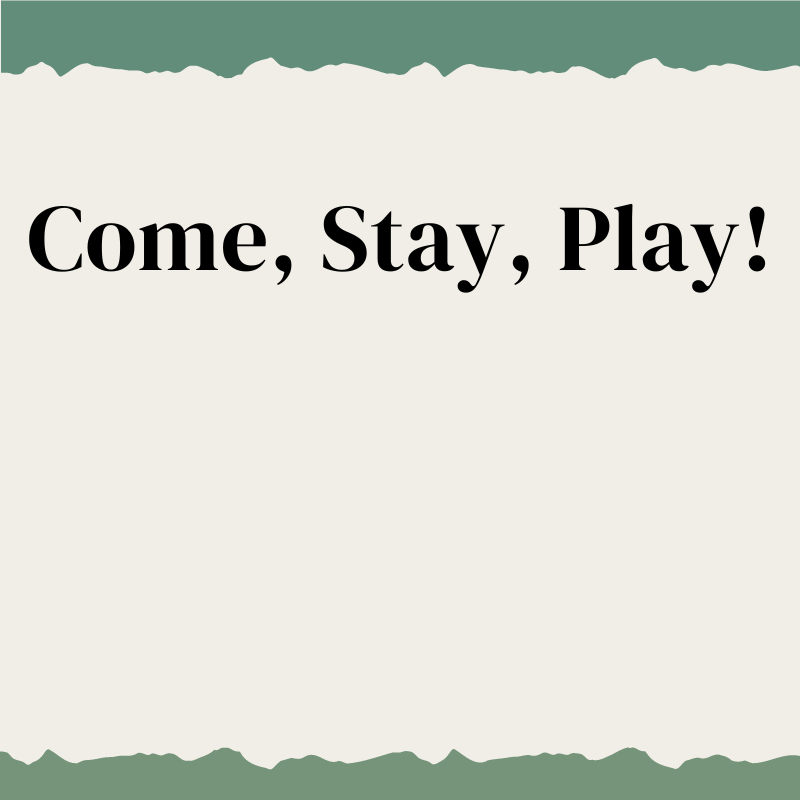
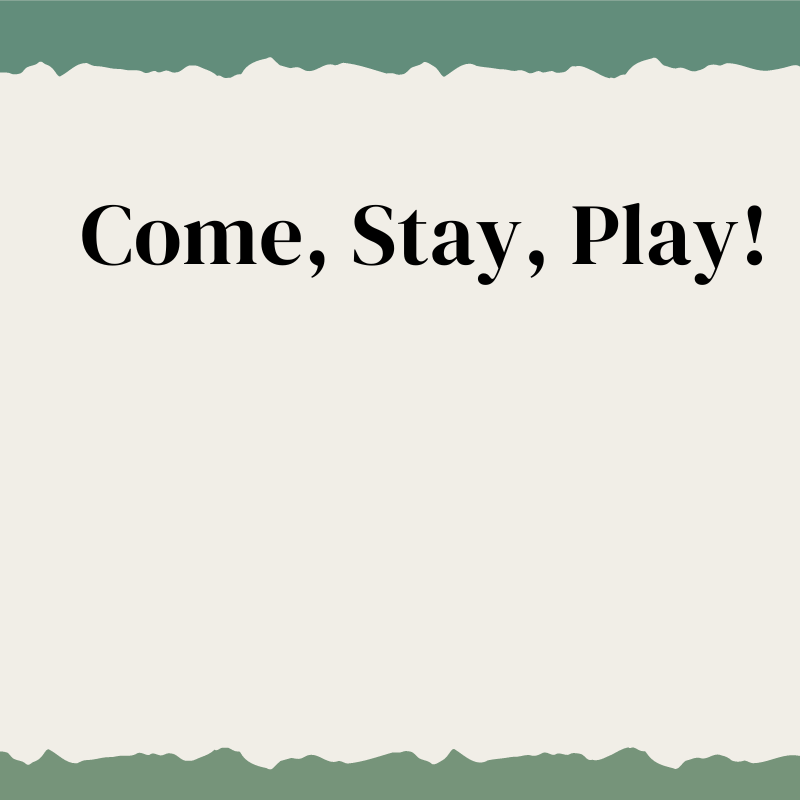
Font-family and styling throughout

Changed region(s): [[0.0312, 0.25, 0.9688, 0.375]]

diff --git a/assets/css/stylesheet.css b/assets/css/stylesheet.css
@@ -1,38 +1,40 @@
 /*--------------------Google Fonts */
 
-@import url('https://fonts.googleapis.com/css2?family=DM+Serif+Display&family=Nunito:wght@200;300;800&display=swap');
-
+@import url('https://fonts.googleapis.com/css2?family=DM+Serif+Display&family=Nunito+Sans:wght@300;600&display=swap');
 body {
     
     margin:0;
     padding: 70px 0px 0px 0px;
     background-color: #76947A;
+    color: black;
 
 }
 
 
 .nav-text {
-    color: black !important;
-    font-size: 21px;
-    font-family: livvic;
-    font-weight:400;
+    font-size: 21px !important;
+    font-family: 'Nunito Sans', sans-serif;
+    font-weight:600;
+    color: black;
+    line-height: 1.6;
    
 }
 
 .nav-button {
-    font-family: livvic !important;
+    font-family: 'Nunito Sans', sans-serif !important;
     background-color: #F1EEE7;
-    font-size: 20px;
-    font-weight:400;
+    font-size: 21px;
+    font-weight:600;
     color: black;
     border: #F1EEE7;
-    
+    line-height: 1.6;
     
 }
 
 .coral-bg {
     background-color:#D76865!important;
 }
+
 .cream-bg {
     background-color: #F1EEE7 !important;
 
@@ -42,26 +44,29 @@ body {
     background-color: #76947A !important;
 }
 
-
+.teal-bg {
+    background-color: #628D7B !important;
+}
 
 
 .custom-button {
-    font-family: livvic !important;
+    font-family: 'Nunito Sans', sans-serif !important;
     background-color: #D76865;
     font-size: 20px;
-    font-weight:500;
+    font-weight:600;
     letter-spacing: 1px;
     color: black;
     border: #D76865;
-    
+    line-height: 1.6;
     
 }
 
 .tagline {
     font-size: 10vw !important;
-    color: black;
-    font-family: solway;
-    font-weight: 600;
+    font-family: 'DM Serif Display', serif;
+    letter-spacing: 1.5;
+    line-height: 1.5;
+    color: #F1EEE7 ;
 }
 
 .no-border {
@@ -82,23 +87,21 @@ body {
 .title-text {
   
     font-size: 6vh !important;
-    font-weight: 500;
-    color: black;
-    letter-spacing: 1px;
+    letter-spacing: 1.5px;
     text-align: center;
-    font-family: solway;
+    font-family: 'DM Serif Display', serif;
+    line-height: 1;
+  
     
 }
 
 
-
 .custom-card-titles {
     
-    font-weight: 400 !important;
-    color: black;
-    font-size: 4vh;
-    font-family: solway;
+    font-size: 3.5vh !important;
+    font-family: 'DM Serif Display', serif;
     letter-spacing: 1.5px;
+    line-height: 1;
     
     
 }
@@ -117,23 +120,20 @@ body {
 
 
 .custom-text {
-    color:black !important;
-    font-size: 2.75vh;
-    font-weight: 400;
+    font-size: 2.75vh !important;
+    font-weight: 300;
     line-height: 1.5;
-    font-family: livvic;
+    font-family: 'Nunito Sans', sans-serif;
     text-align: center;
     
 }
 
 .pre-button-text {
-    color:black !important;
-    font-size: 3.5vh;
-    font-weight: 400;
-    line-height: 1.5;
-    font-family: solway;
+    font-size: 3.5vh !important;
+    font-family: 'DM Serif Display', serif;
     text-align: center;
     letter-spacing: 1.5px;
+    line-height: 1;
 
 }
 
@@ -143,10 +143,10 @@ body {
 }
 
 .form-text {
-    color:black !important;
-    font-size: 18px;
+    font-size: 18px !important;
     font-weight: 300;
-    font-family: livvic;
+    font-family: 'Nunito Sans', sans-serif;
+    line-height: 1.5;
     
 }
 
@@ -159,5 +159,7 @@ body {
     background-color:#76947A !important;
     border-color:#76947A;
     color: white;
-    font-family: livvic;
+    font-family: 'Nunito Sans', sans-serif;
+    font-weight: 600;
+    line-height: 1;
 }

diff --git a/index.html b/index.html
@@ -16,7 +16,7 @@
 <body>
     <header>
         <!-- Bootstrap 5 Navbar -->
-        <nav class="navbar p-1 fixed-top navbar-dark coral-bg">
+        <nav class="navbar p-1 fixed-top navbar-dark teal-bg">
             <div class="container-fluid">
                 <!-- Logo Image -->
                 <a href="#" class="navbar-brand">
@@ -36,18 +36,18 @@
                 <!--Navigation Links-->
                 <div class="collapse navbar-collapse justify-content-end" id="main-nav">
                     <ul class="navbar-nav d-flex align-items-center">
-                        <li class="nav-link">
+                        <li class="nav-link nav-text">
                             <a class="nav-link nav-text" href="#services">Services</a>
                         </li>
-                        <li class="nav-link">
+                        <li class="nav-link nav-text">
                             <a class="nav-link nav-text" href="#about">About</a>
                         </li>
-                        <li class="nav-link">
+                        <li class="nav-link nav-text">
                             <a class="nav-link nav-text" href="#find-us">Find Us</a>
                         </li>
                         <!--CTA Modal Button-->
                         <li class="nav-item nav-text pb-2">
-                            <a class="btn nav-button btn-outline-dark nav-text" data-bs-toggle="modal" data-bs-target="#get-in-touch-modal">Get In Touch</a>
+                            <a class="btn nav-button nav-text" data-bs-toggle="modal" data-bs-target="#get-in-touch-modal">Get In Touch</a>
                         </li>
                     </ul>
                 </div>
@@ -56,7 +56,7 @@
         <!-- End of Bootstrap 5 Navbar-->
         
         <!--Tagline for sm screens-->
-        <section class="container-fluid cream-bg">
+        <section class="container-fluid teal-bg">
             <div class="row g-0 pt-5 d-flex align-items-center justify-items-center d-md-none">
                 <h1 class=" text-center tagline">Come, Stay, Play!</h1>
             </div>
